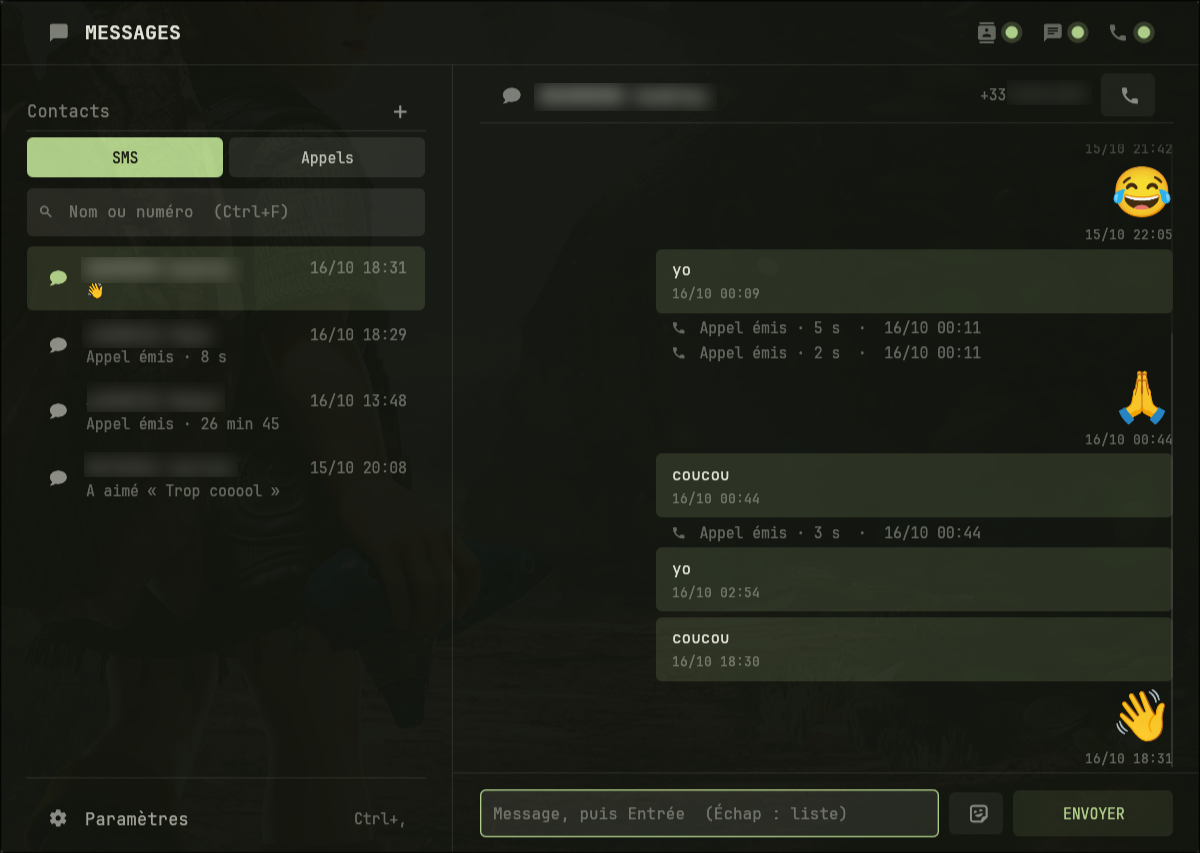
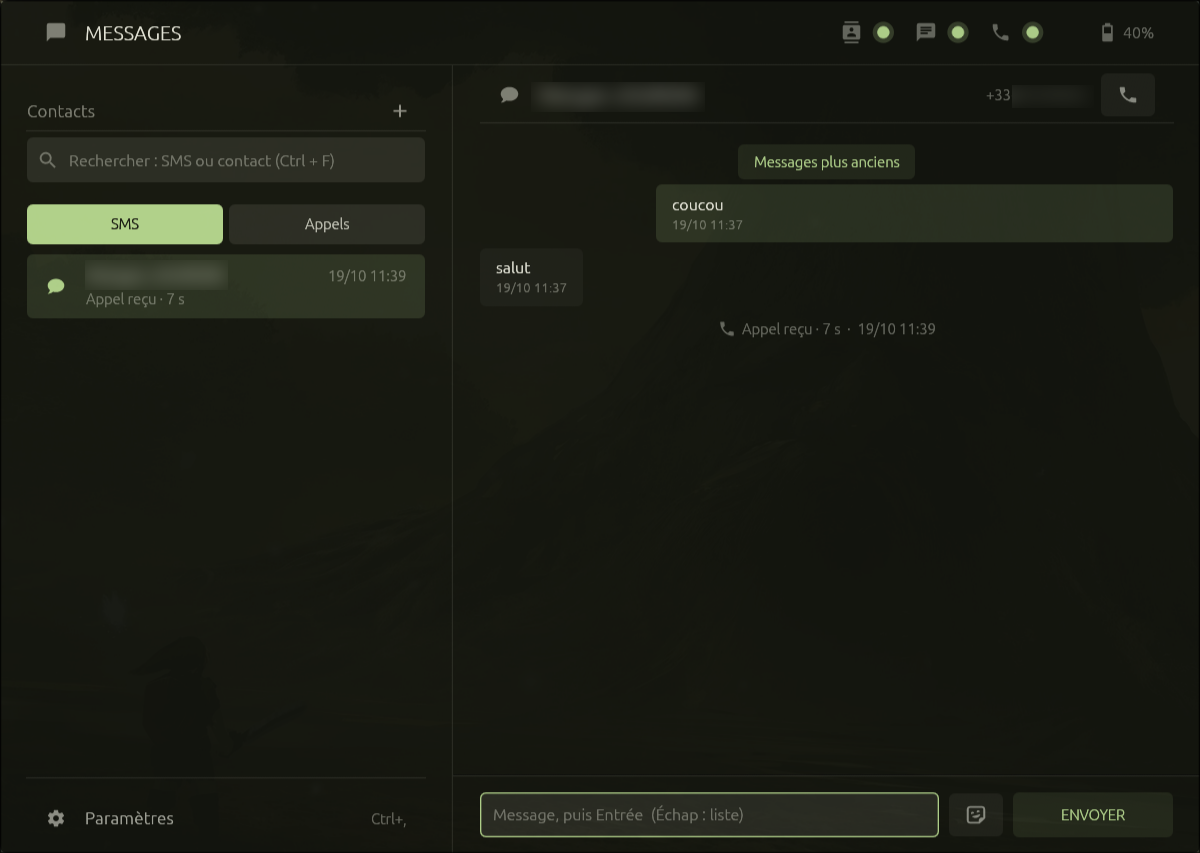
docs: Android compatibility, new screenshots

diff --git a/README.fr.md b/README.fr.md
@@ -2,15 +2,16 @@
 
 [English](README.md) · **Français**
 
-SMS et appels de l'iPhone sur un PC Linux, par Bluetooth uniquement : aucun serveur tiers, aucun compte
-Apple, aucune app à installer sur le téléphone. Écrit en Rust, interface egui.
+SMS et appels de l'iPhone et d'Android sur un PC Linux, par Bluetooth uniquement : aucun serveur tiers,
+aucun compte Apple ou Google, aucune app à installer sur le téléphone. Écrit en Rust, interface egui.
 
 > **Projet « vibe codé »** : le code a été écrit par une IA ([Claude Code](https://claude.com/claude-code)),
 > sous la direction de l'auteur, qui en a fixé les orientations de structure, d'optimisation et de
-> sécurité, et l'a testé sur son propre matériel (iPhone 11, Arch Linux, Hyprland).
+> sécurité, et l'a testé sur son propre matériel (iPhone 11 et un téléphone Android, Arch Linux, Hyprland).
 
-- **Assistant de configuration** : allume l'adaptateur Bluetooth, trouve et appaire l'iPhone (code confirmé
-  des deux côtés), puis vérifie les réglages de l'iPhone ; plusieurs appareils, chacun avec son historique.
+- **Assistant de configuration** : allume l'adaptateur Bluetooth, trouve et appaire le téléphone (code confirmé
+  des deux côtés), puis indique quoi activer dessus ; dissociation depuis l'assistant ; plusieurs appareils,
+  chacun avec son historique.
 - **SMS** : lecture et envoi par le profil Bluetooth MAP (via `bluez-obex`), emojis en couleur,
   réactions, liens cliquables avec aperçus optionnels (titre et image), renvoi en cas d'échec.
 - **Conversations** : onglets SMS et Appels, recherche dans les noms et dans le texte de tous les messages,
@@ -30,6 +31,11 @@ Apple, aucune app à installer sur le téléphone. Écrit en Rust, interface egu
 > Limites connues : iOS n'expose pas les iMessage par MAP (seulement les SMS/MMS texte) ; les dossiers
 > MAP `sent`/`outbox` sont vides côté iPhone, les envois de l'app sont donc consignés localement ; les
 > réactions (tapbacks) sont envoyées sous forme de SMS texte (« Liked “…” »).
+>
+> Compatibilité : iPhone (iOS) et Android. Sous Android, SMS, appels et contacts fonctionnent ; autoriser
+> le PC à accéder aux messages et aux contacts quand le téléphone le demande (le service MAP n'apparaît
+> qu'une fois le partage autorisé). Si un téléphone oublie le PC, le dissocier aussi depuis l'assistant
+> avant de réappairer.
 
 ## Composants
 
@@ -115,10 +121,12 @@ puis `systemctl --user restart wireplumber` et reconnecter l'iPhone.
 1. Ouvrir **bmessage** depuis le menu. Sans appareil configuré, l'assistant de configuration s'ouvre
    (aussi accessible par **Paramètres > Appareils > Configurer un appareil**) :
    1. **Adaptateur Bluetooth** : l'allumer si besoin.
-   2. **Appareil** : rechercher puis appairer l'iPhone (confirmer le même code des deux côtés), ou choisir
+   2. **Appareil** : rechercher puis appairer le téléphone (confirmer le même code des deux côtés), ou choisir
       un appareil déjà appairé, ou saisir son adresse.
-   3. **Réglages de l'iPhone** : dans Réglages > Bluetooth > (i) à côté du PC, activer **Afficher les
-      notifications** (MAP) et **Synchroniser les contacts** (PBAP) ; les voyants Appels (HFP), Messages
+   3. **Réglages du téléphone** : sur iPhone, dans Réglages > Bluetooth > (i) à côté du PC, activer
+      **Afficher les notifications** (MAP) et **Synchroniser les contacts** (PBAP) ; sur Android, autoriser
+      l'accès aux messages et aux contacts pour le PC (demande d'appairage ou réglages de l'appareil
+      Bluetooth) ; les voyants Appels (HFP), Messages
       (MAP) et Contacts (PBAP) passent au vert. iOS demande aussi l'autorisation au premier accès.
    4. **Terminé**.
 

diff --git a/README.md b/README.md
@@ -2,15 +2,16 @@
 
 **English** · [Français](README.fr.md)
 
-iPhone texts and calls on a Linux PC, over Bluetooth only: no third-party server, no Apple account, no app
-to install on the phone. Written in Rust, egui interface.
+iPhone and Android texts and calls on a Linux PC, over Bluetooth only: no third-party server, no Apple or
+Google account, no app to install on the phone. Written in Rust, egui interface.
 
 > **"Vibe coded" project**: the code was written by an AI ([Claude Code](https://claude.com/claude-code))
 > under the direction of the author, who set its structural, optimisation and security guidelines and
-> tested it on his own hardware (iPhone 11, Arch Linux, Hyprland).
+> tested it on his own hardware (iPhone 11 and an Android phone, Arch Linux, Hyprland).
 
-- **Setup assistant**: turns the Bluetooth adapter on, finds and pairs the iPhone (code confirmed on
-  both sides), then checks the iPhone settings; several devices, each with its own history.
+- **Setup assistant**: turns the Bluetooth adapter on, finds and pairs the phone (code confirmed on
+  both sides), then tells you what to enable on it; unpair a device from the assistant; several devices,
+  each with its own history.
 - **Texts**: read and send through the Bluetooth MAP profile (via `bluez-obex`), colour emojis,
   reactions, clickable links with optional previews (title and image), resend on failure.
 - **Conversations**: SMS and Calls tabs, search in names and in the text of every message,
@@ -30,6 +31,10 @@ to install on the phone. Written in Rust, egui interface.
 > Known limits: iOS does not expose iMessage over MAP (only SMS/MMS text); the MAP `sent`/`outbox` folders
 > are empty on the iPhone, so messages sent from the app are recorded locally; reactions (tapbacks) are sent
 > as plain texts ("Liked “…”").
+>
+> Compatibility: iPhone (iOS) and Android. On Android, texts, calls and contacts work; allow the PC to
+> access messages and contacts when the phone asks (the MAP service only appears once sharing is allowed).
+> If a phone forgets the PC, unpair it from the assistant too before pairing again.
 
 ## Components
 
@@ -115,10 +120,11 @@ over HFP (around -34 dBFS at peak). To change it, copy the script to
 1. Open **bmessage** from the menu. Without a configured device, the setup assistant opens (also
    available from **Settings > Devices > Set up a device**):
    1. **Bluetooth adapter**: turn it on if needed.
-   2. **Device**: search, then pair the iPhone (confirm the same code on both sides), or pick an
+   2. **Device**: search, then pair the phone (confirm the same code on both sides), or pick an
       already paired one, or type its address.
-   3. **iPhone settings**: in Settings > Bluetooth > (i) next to the PC, enable **Show Notifications**
-      (MAP) and **Sync Contacts** (PBAP); the Calls (HFP), Messages (MAP) and Contacts (PBAP) lights
+   3. **Phone settings**: on iPhone, in Settings > Bluetooth > (i) next to the PC, enable **Show
+      Notifications** (MAP) and **Sync Contacts** (PBAP); on Android, allow access to messages and contacts
+      for the PC in the pairing prompt or the Bluetooth device settings; the Calls (HFP), Messages (MAP) and Contacts (PBAP) lights
       turn green. iOS also asks for permission on first access.
    4. **Done**.
 
